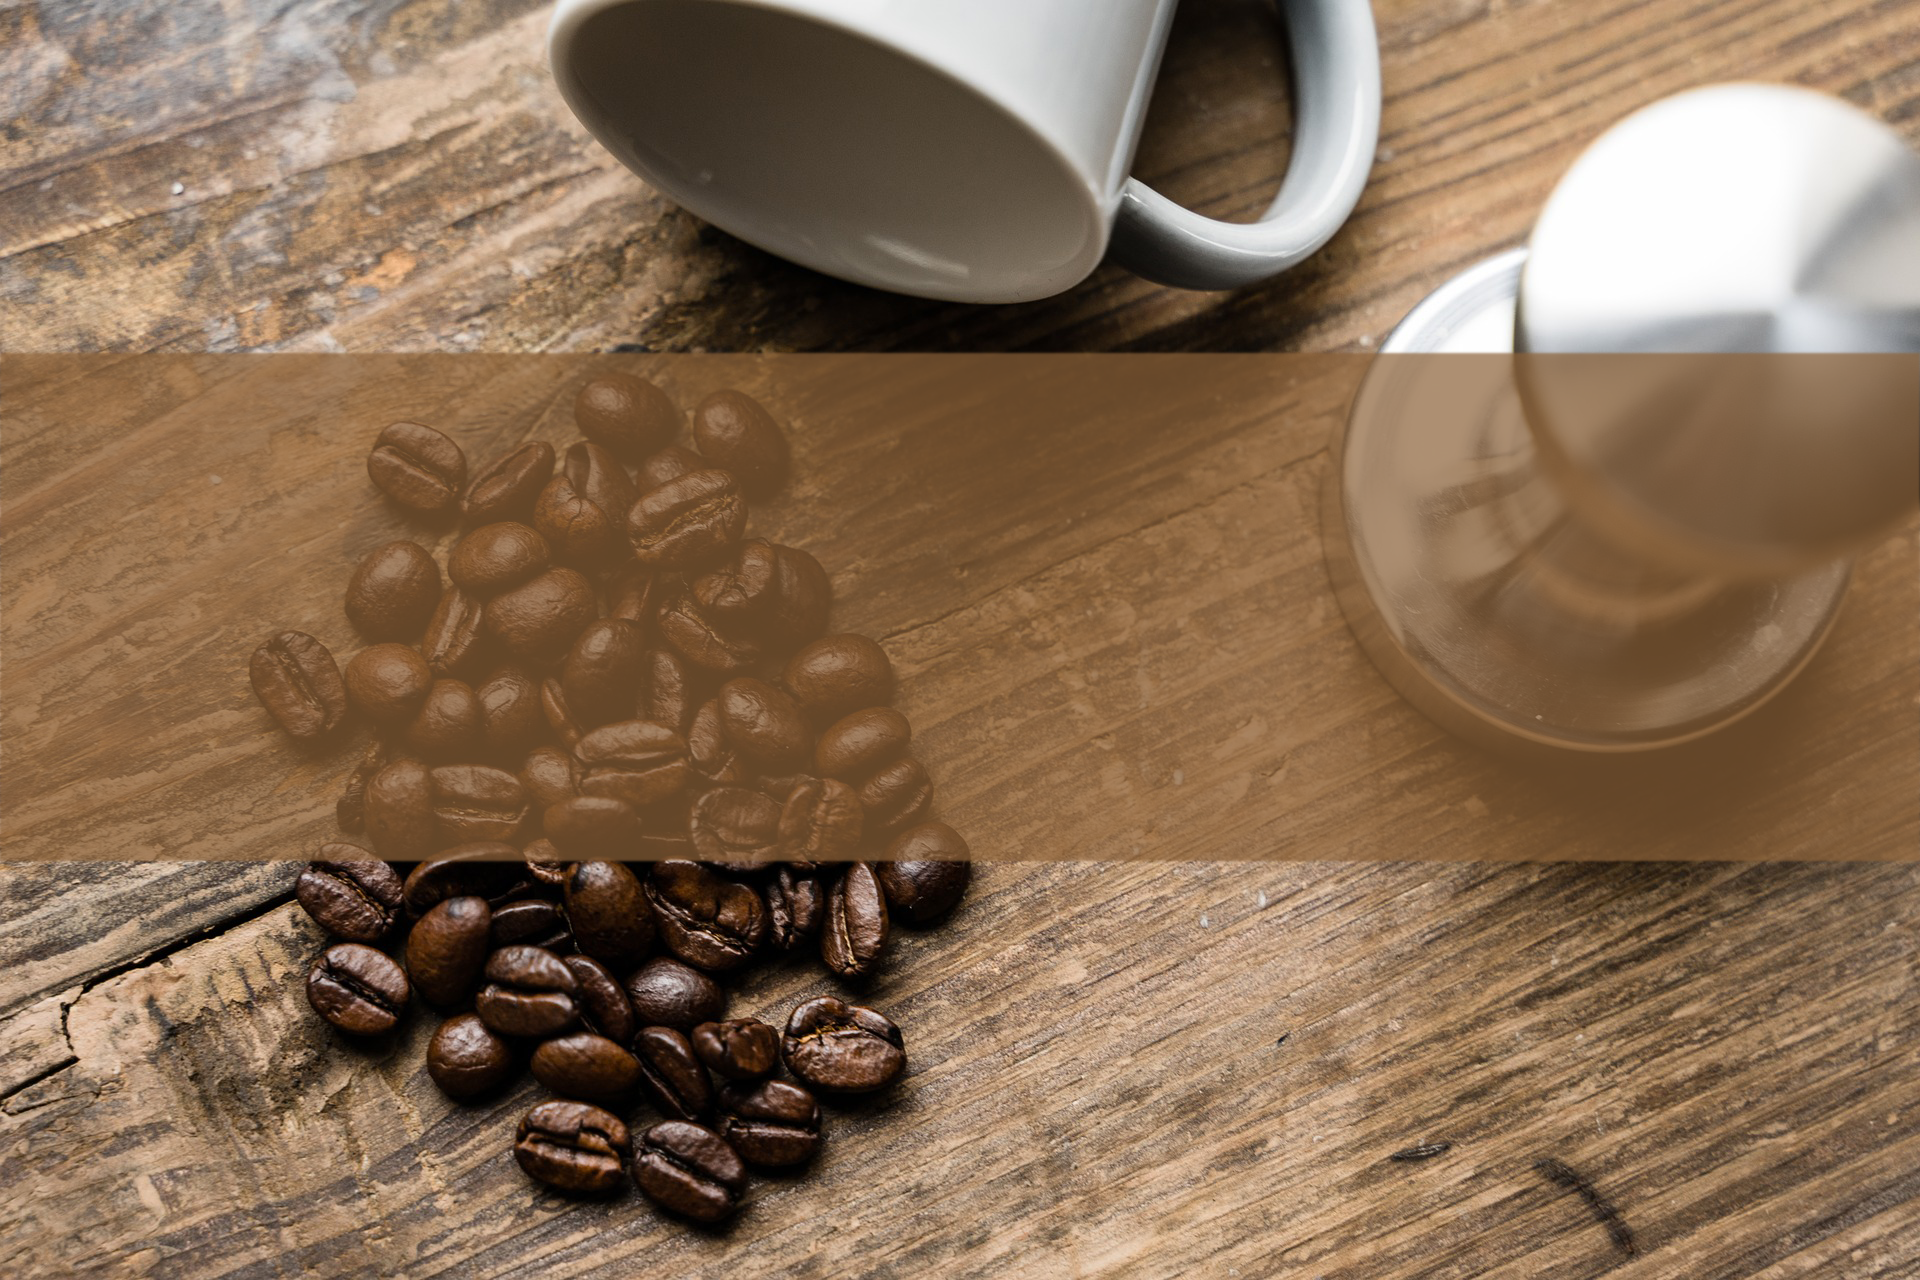
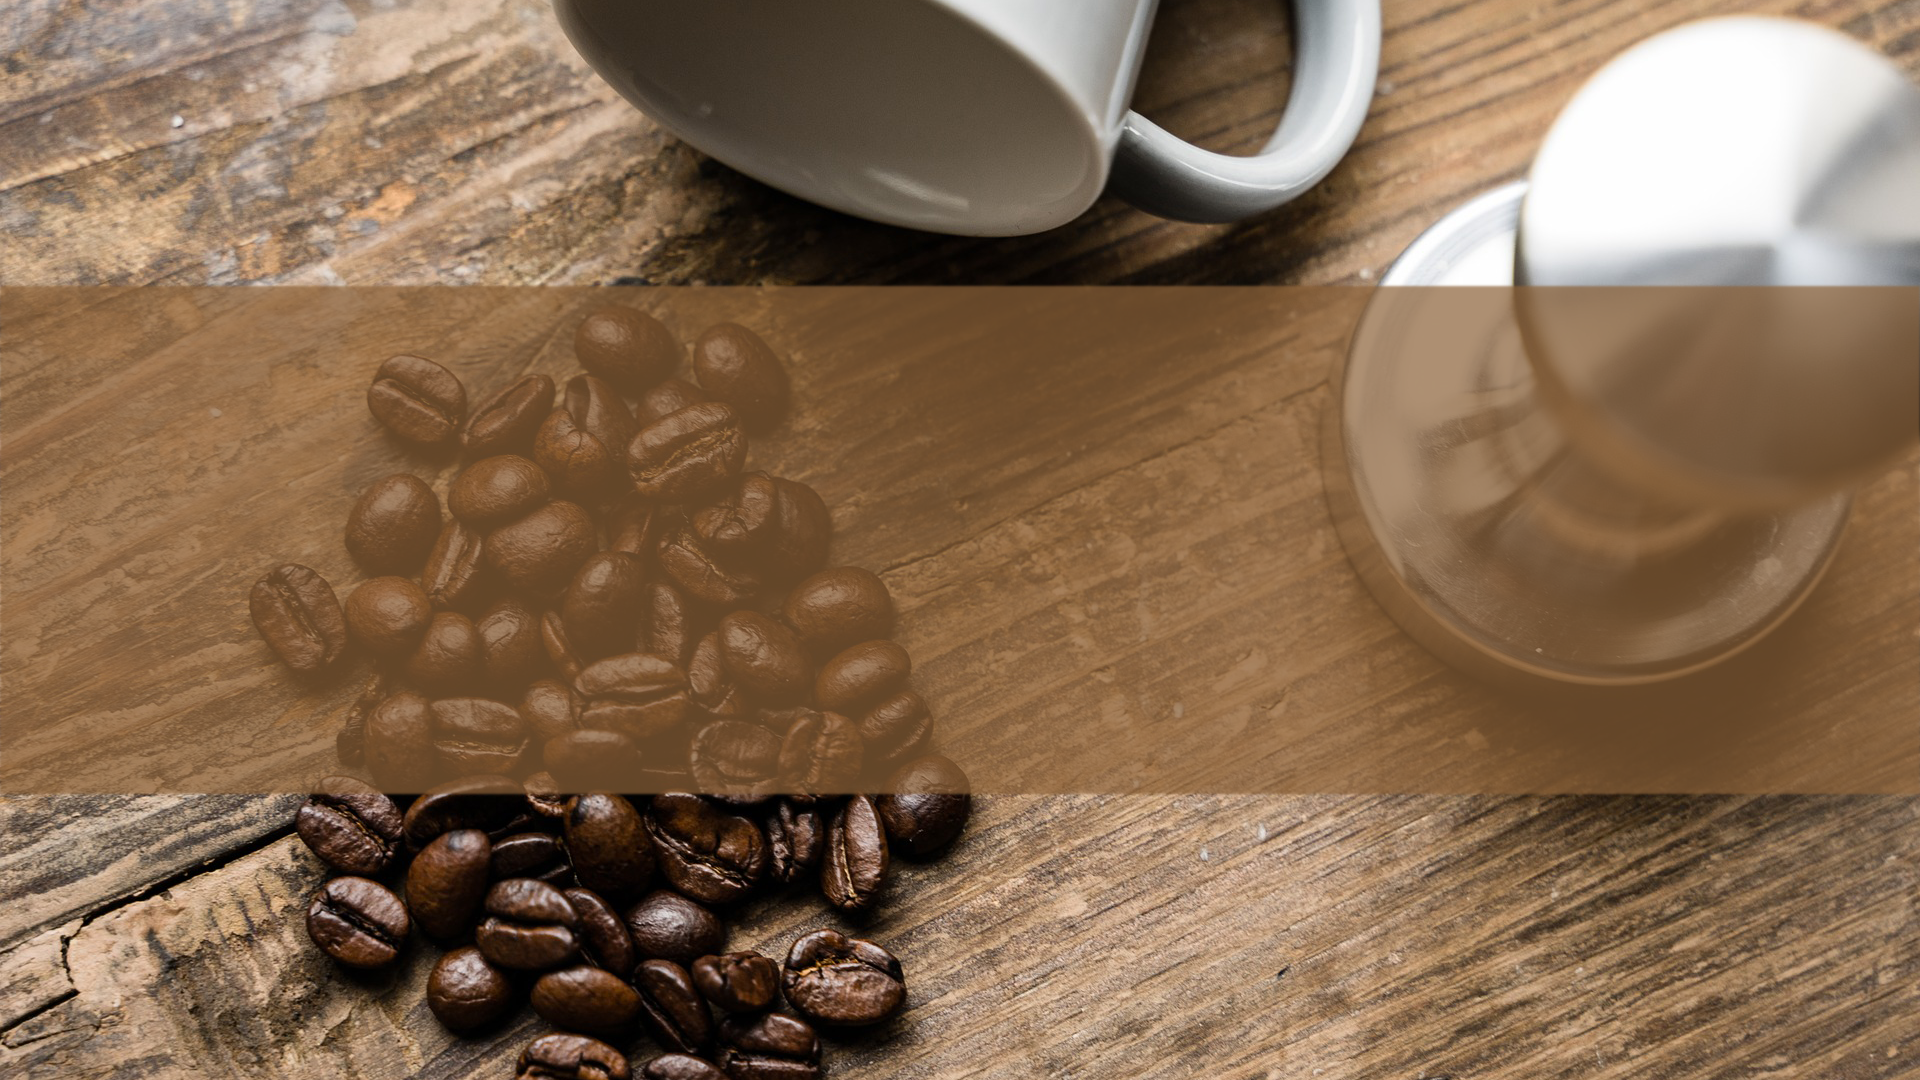
commit

diff --git a/coffeebar/src/component/App.css b/coffeebar/src/component/App.css
@@ -10,6 +10,19 @@
 }
 
 .heading {
-  background-image: url("bg.png");
   width: 100%;
+  height: 100vh;
+  background-image: url("bg.png");
+  background-size: 100% 100%;
+}
+
+h1 {
+  min-height: 100vh;
+  display: flex;
+  flex-direction: column;
+  align-items: center;
+  justify-content: center;
+  margin: 0 auto;
+  font-size: calc(7rem + 2vmin);
+  color: white;
 }
